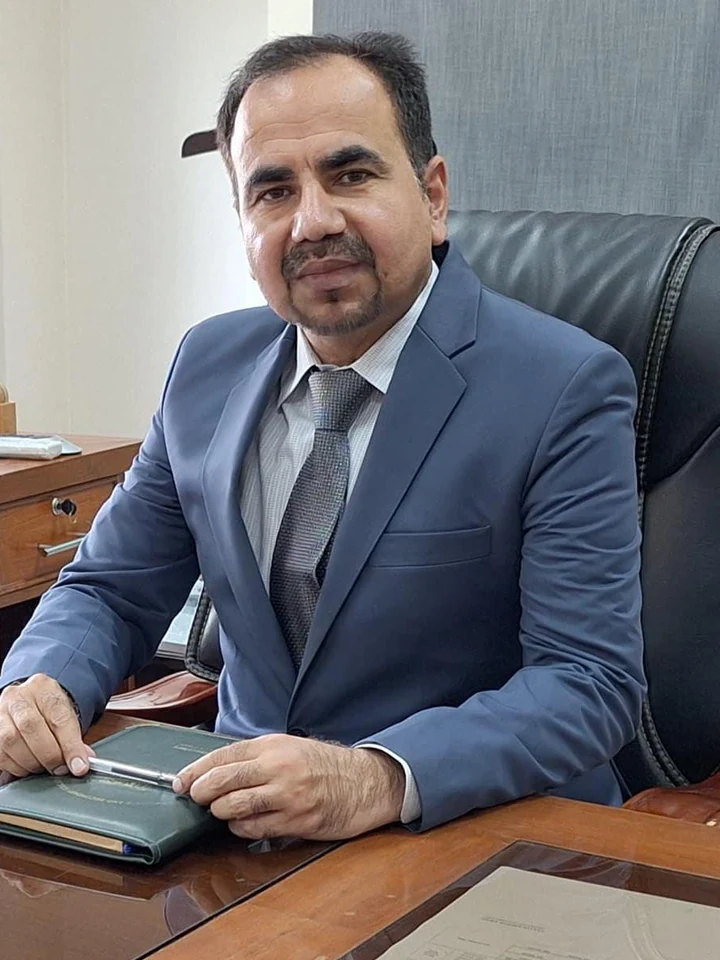
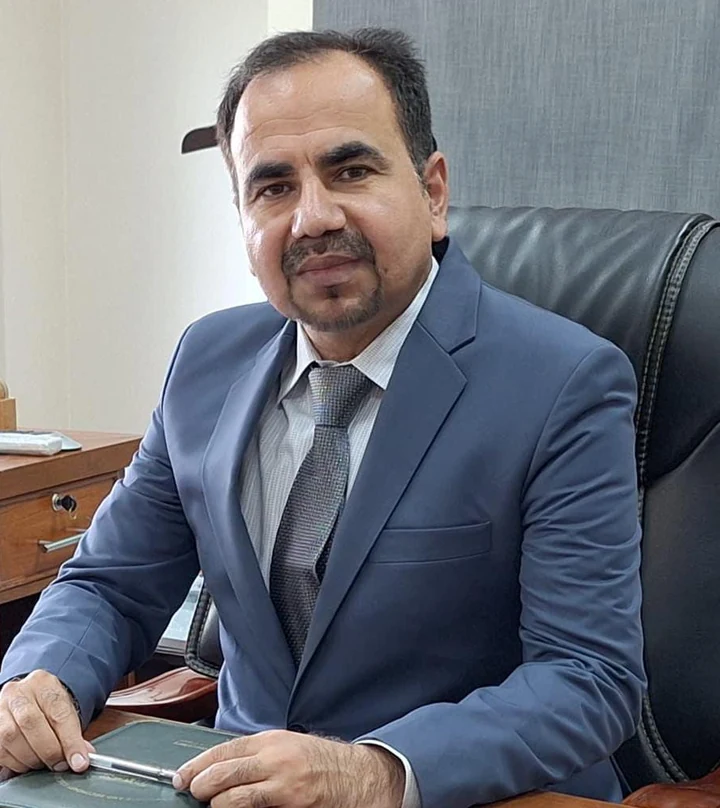
Hero: crop portrait at the hands, add three trust points under the buttons to balance columns
Claude-Session: https://claude.ai/code/session_015zb9qkiEePeiDogrNExsnM

diff --git a/src/app/page.tsx b/src/app/page.tsx
@@ -56,6 +56,7 @@ function Hero() {
   const leader = leadership[0];
   const o = heroCard.offerings;
   const offeringLines = [o.slice(0, 2), o.slice(2, 4), o.slice(4)];
+  const heroTrust = [whyChoose[0], whyChoose[1], whyChoose[6]].map((t) => t.replace(/\.$/, ""));
   return (
     <section className="relative overflow-hidden bg-navy-50">
       <Container className="relative grid items-start gap-12 pt-8 pb-14 sm:pt-10 sm:pb-16 lg:grid-cols-[1.2fr_1fr] lg:pt-12 lg:pb-20">
@@ -64,7 +65,7 @@ function Hero() {
           <h1 className="text-3xl leading-[1.15] font-semibold sm:text-4xl lg:text-[2.6rem]">
             Submit the form to avail any of the following services
           </h1>
-          <ol className="mt-8 grid gap-3">
+          <ol className="mt-8 grid gap-3 lg:gap-4">
             {heroServices.map((s, i) => (
               <li key={s} className="flex items-start gap-4">
                 <span className="mt-0.5 flex h-7 w-7 shrink-0 items-center justify-center rounded-full bg-navy-900 font-heading text-xs font-semibold text-gold-300">
@@ -82,6 +83,16 @@ function Hero() {
               Explore Career Opportunities
             </ButtonLink>
           </div>
+          <ul className="mt-10 grid gap-4 border-t border-line pt-8 sm:grid-cols-3 lg:mt-12 lg:pt-10">
+            {heroTrust.map((t) => (
+              <li key={t} className="flex items-start gap-3">
+                <span className="mt-0.5 rounded-full bg-gold-50 p-1 text-gold-700">
+                  <Icon name="check" className="h-4 w-4" />
+                </span>
+                <span className="text-sm leading-snug font-medium text-navy-900">{t}</span>
+              </li>
+            ))}
+          </ul>
         </div>
 
         <div className="relative animate-rise [animation-delay:150ms]">
